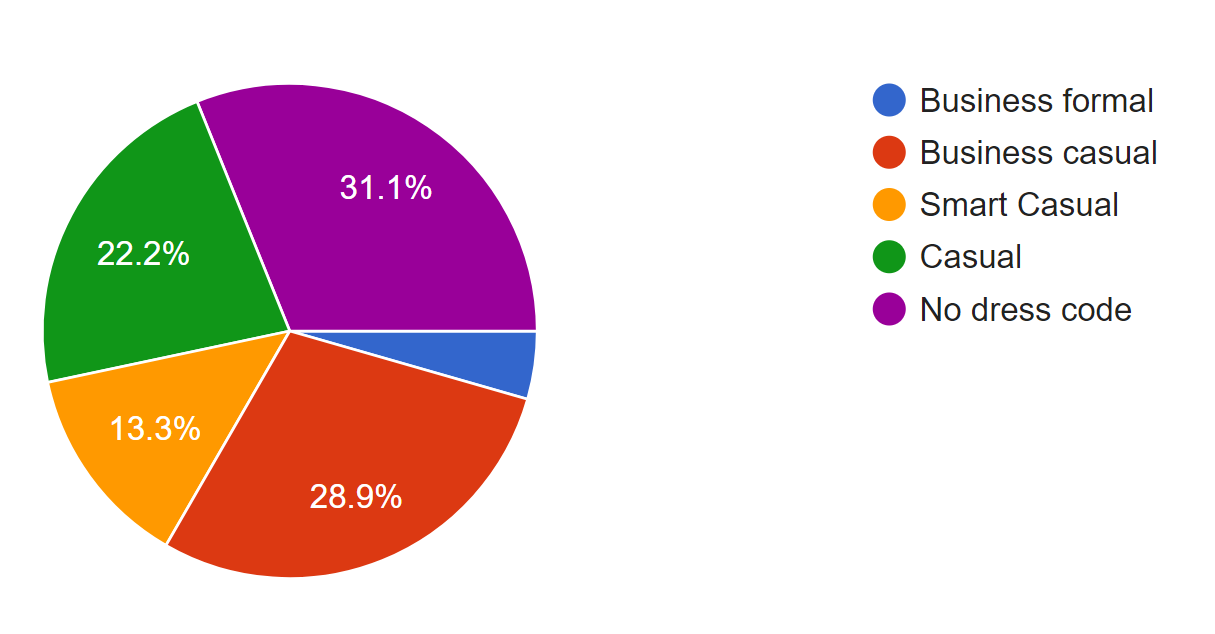
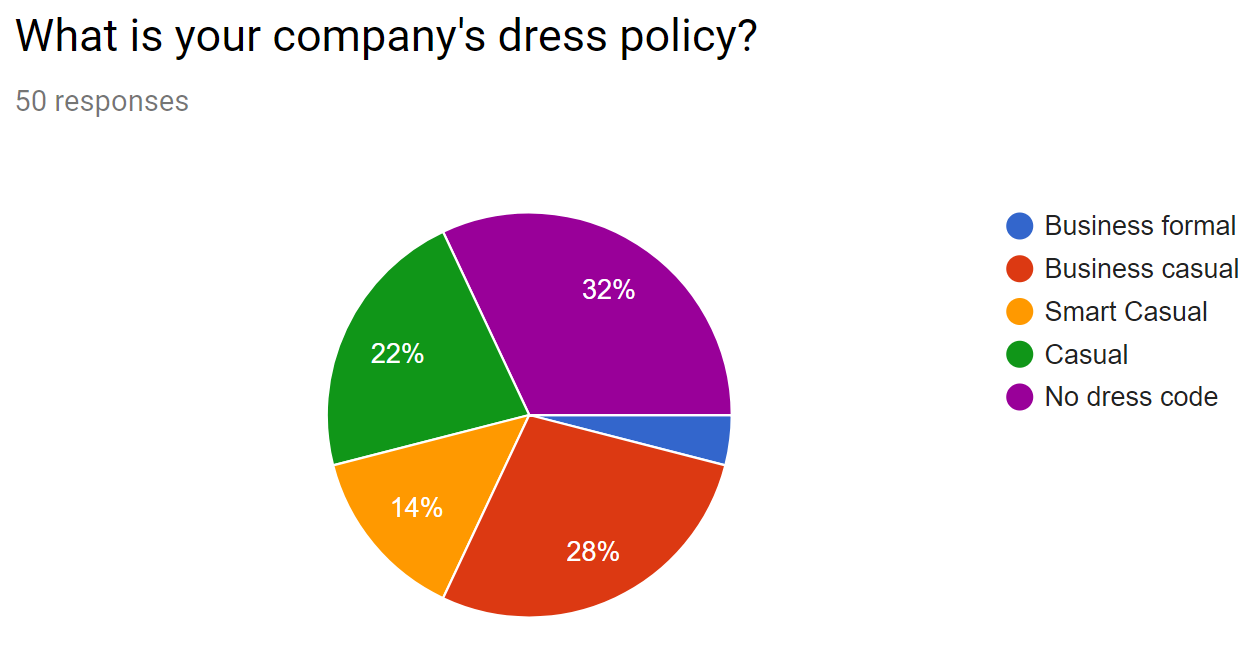
added graphs and css to research tab

diff --git a/src/components/Research.js b/src/components/Research.js
@@ -3,6 +3,8 @@ import React, { Component } from 'react';
 import './research.css';
 import dressCodeGraph from './images/graphs/dresscode.PNG'
 import officeLayoutGraph from './images/graphs/dresscode.PNG'
+import teamBuildingGraph from './images/graphs/team-building.PNG'
+import gender from './images/graphs/gender.PNG'
 
 class Research extends Component {
     render() {
@@ -22,8 +24,10 @@ class Research extends Component {
                         <p>Below are the graphical findings of 3Bears data.</p>
                     </section>
                     <section className="graphs-layout">
-                    <label>Dress Code</label><br /><img src={dressCodeGraph} alt="dress code graph results" className="graphs"/>
-                    <label>Office Layouts</label><br /><img src={officeLayoutGraph} alt="office layout graph results" className="graphs"/>
+                    <img src={dressCodeGraph} alt="dress code graph results" className="graphs"/>
+                    <img src={officeLayoutGraph} alt="office layout graph results" className="graphs"/>
+                    <img src={teamBuildingGraph} alt="team-building graph results" className="long-graphs"/>
+                    <img src={gender} alt="gender graph results" className="graphs"/>
                     </section>
                 </article>
             </div>

diff --git a/src/components/companies.css b/src/components/companies.css
@@ -1,4 +1,33 @@
-h1 {
-    font-size: 100px;
-    font-family: serif;
+@import url('https://fonts.googleapis.com/css?family=Judson');
+
+.research-h1 {
+    /* font-weight: none; */
+    text-align: center;
+    font-size: 40px;
+    font-family: 'Judson', serif;
+    line-height: 5rem;
+}
+
+
+.quote-blockquote {
+    /* padding-top: 3rem; */
+    font-style: italic;
+    font-size: 22px;
+    padding-left: 10%;
+    width: 55%;
+    line-height: 2rem;
+}
+
+
+.author {
+    font-style: italic;
+    color: rgb(51, 92, 131);
+    padding-right: 9rem;
+}
+
+
+.quote-container {
+    width: 100%;
+    /* padding-top: 15%; */
+    padding-left: 5rem;
 }

diff --git a/src/components/Companies.js b/src/components/Companies.js
@@ -1,13 +1,12 @@
 import React, { Component } from 'react';
 import './companies.css';
-import './main.css';
 
 
 class Companies extends Component {
     render() {
         return(
             <div>
-                <h1>Company Cultures</h1>
+                <h1 className="research-h1">Company Cultures</h1>
                 
                 <div className="quote-container">
                     <blockquote className="quote-blockquote"> "A company culture that facilitates employee <em>happiness</em> means <em>lower turnover</em> and <em>better company performance</em>. Employees are loyal and companies perform better. It’s a win-win."

diff --git a/src/components/research.css b/src/components/research.css
@@ -14,19 +14,23 @@
     margin-right: auto;
     margin-left: auto;
     columns: 2;
-    height: 16rem;
+    margin-bottom: 2rem;
 }
 
 .graphs-layout {
+    width: 70%;
     display: flex;
     flex-flow: row wrap;
     justify-content: space-evenly;
-    margin-left: 10%;
+    margin-left: 15%;
     margin-right: 10%;
-    /* columns: 2; */
 }
 
 .graphs {
-    width: 300px;
-    height: 190px;
+    width: 40%;
+    height: 35%;
+}
+.long-graphs {
+    width: 50%;
+    height: 40%;
 }
